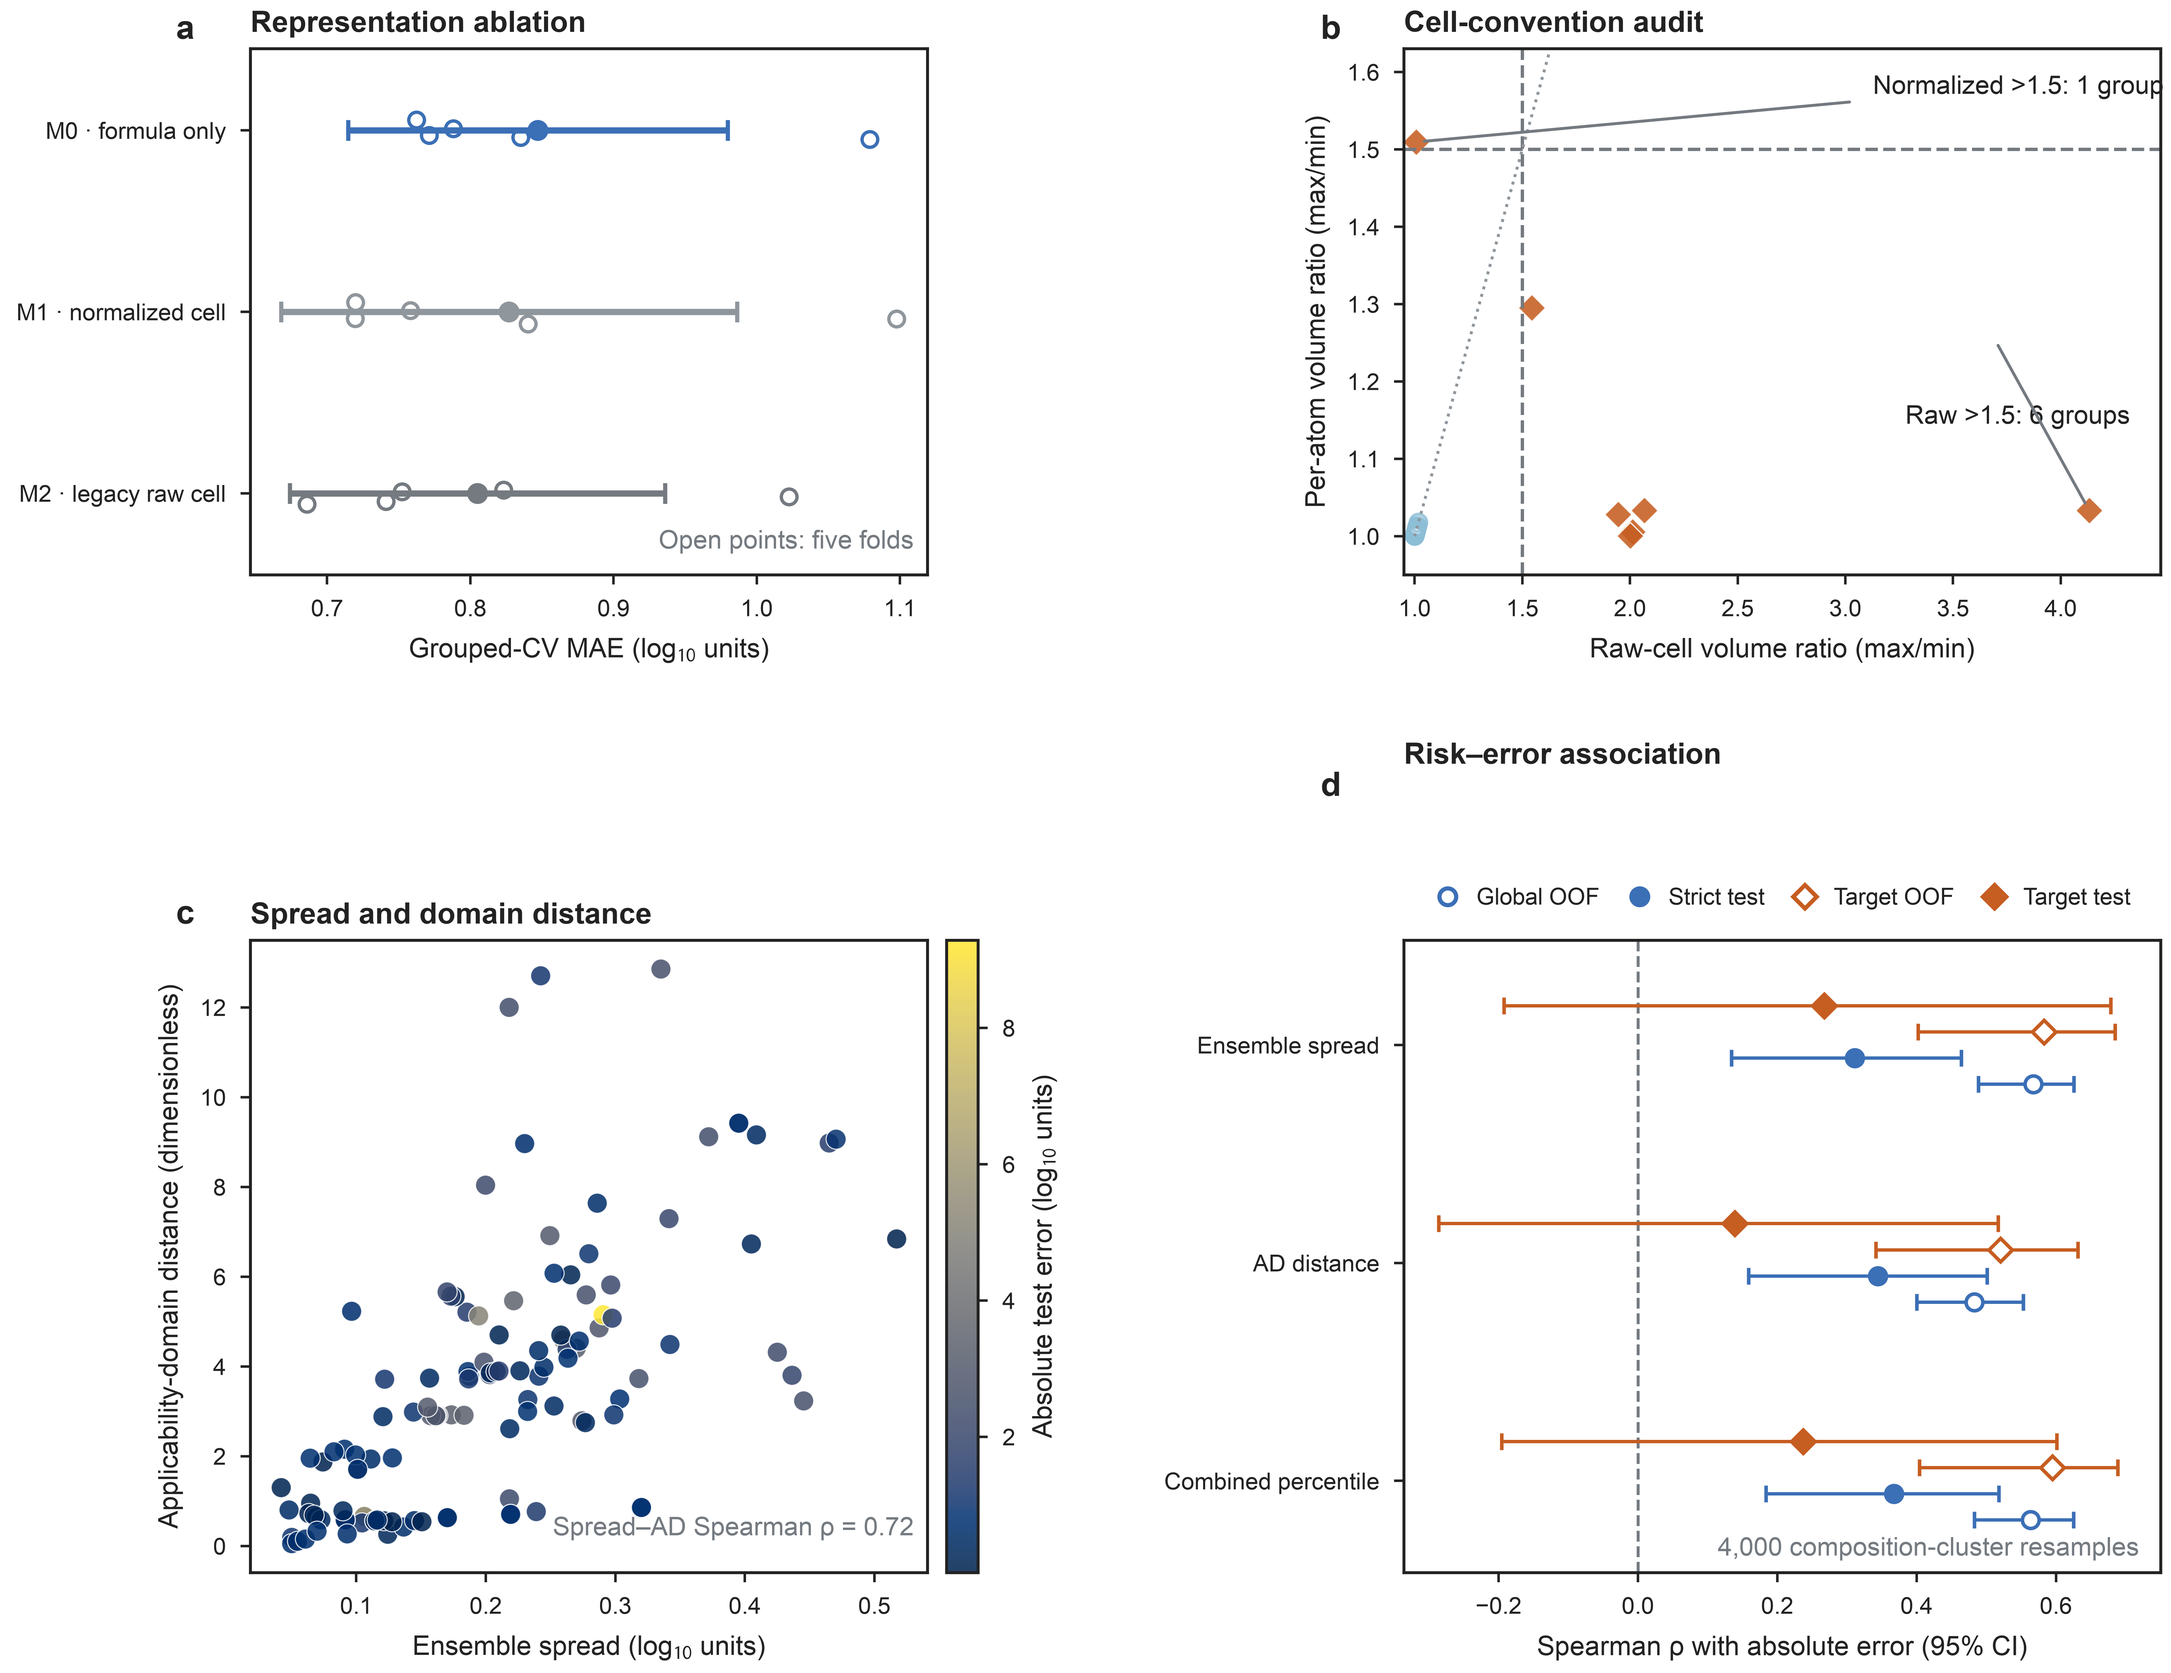
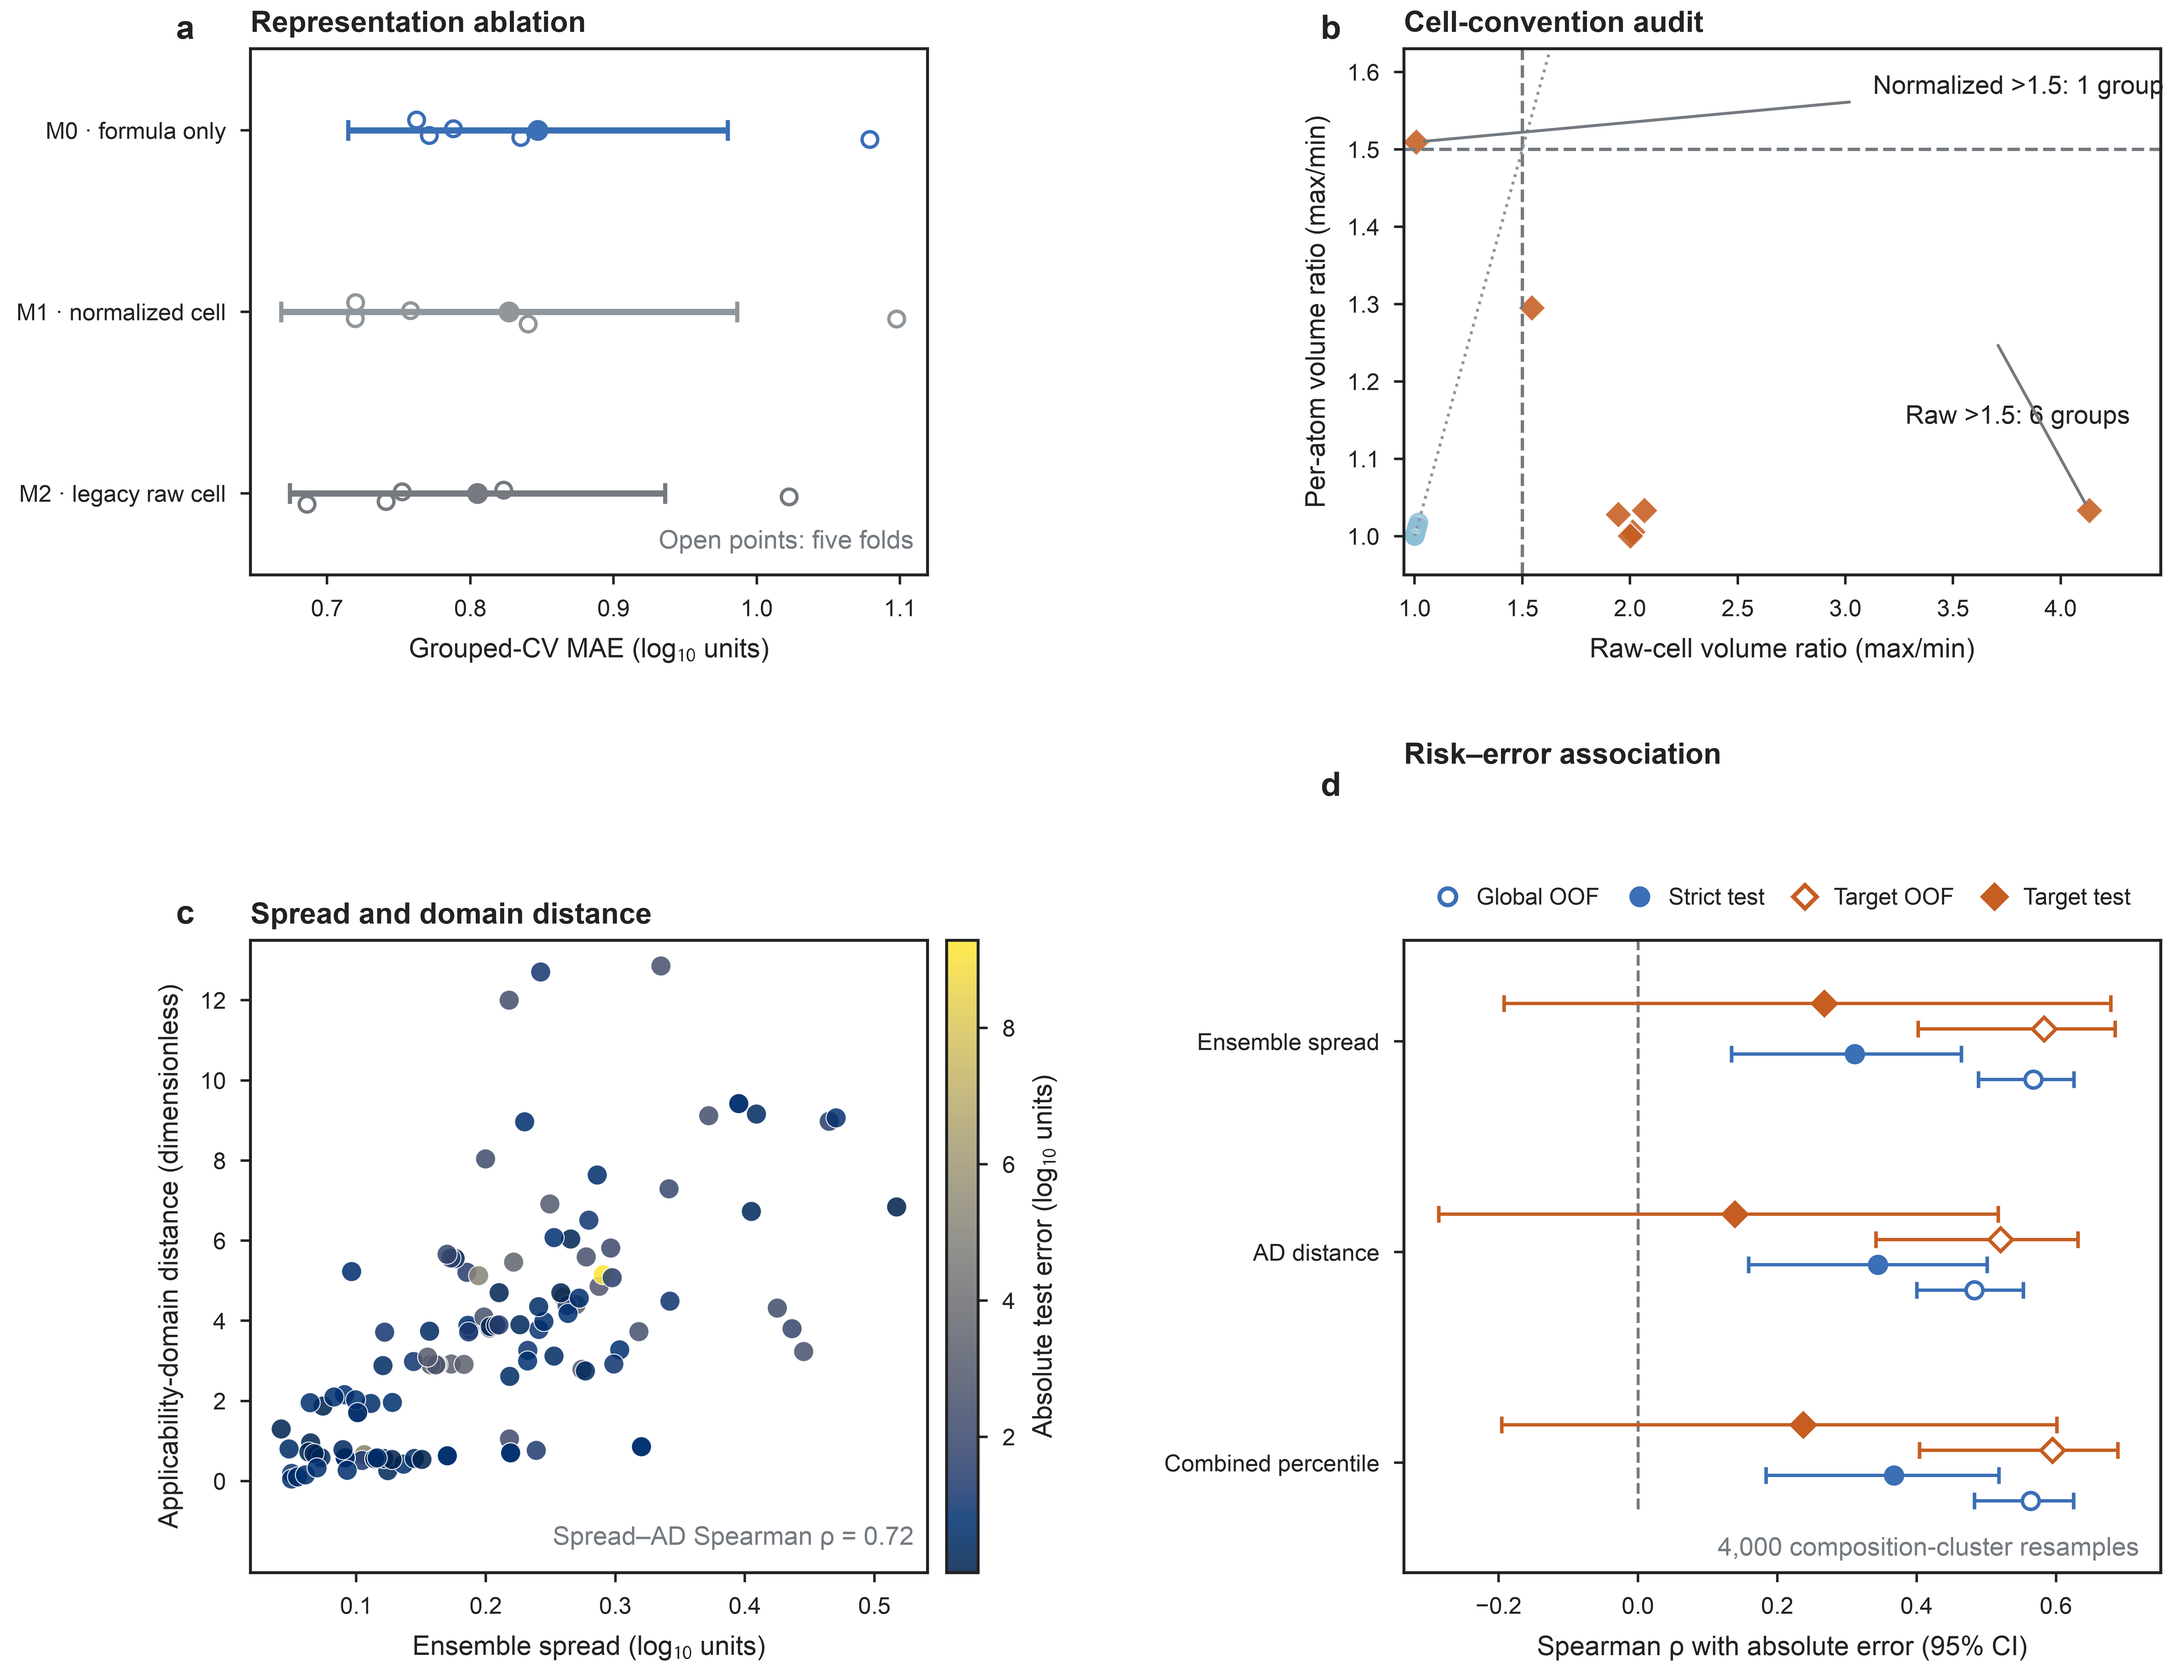
Figure 3: give the two annotations clearance under any sans-serif face
The frozen-release run stayed red after CI was pinned to the reviewed
environment, so the cause was not package drift. Arial is absent from the
Ubuntu runner, Matplotlib substitutes DejaVu Sans, and the wider face grows the
two annotation bounding boxes in Figure 3 until the layout test reports six
collisions. The style already declares Helvetica and DejaVu Sans as fallbacks,
so a figure that only clears its own data under Arial does not meet the
project's stated contract.

Both annotations were anchored to a panel corner with almost no padding:

- Panel c placed the spread-AD correlation note directly against the scatter.
  The axes now reserve an empty band below the data and, because AD distance is
  non-negative, that band carries no tick labels.
- Panel d's resample note did not touch any data point; it crossed the dashed
  zero reference line, which spanned the full axes height. The line now stops
  above the bottom strip that carries the note.

Verified by rendering all six figures under Arial, DejaVu Sans, and a
Nimbus/Liberation fallback chain: zero legend and free-text collisions in every
combination, where the previous code gave six under any non-Arial face. Figures
1, 2, 4, 5 and S1 were already clean and are unchanged apart from re-rendering.

diff --git a/src/p1screen/figures.py b/src/p1screen/figures.py
@@ -924,7 +924,13 @@ def figure_03() -> None:
         ABSOLUTE_ERROR_LABEL,
     )
     rho = test[["spread", "ad_distance"]].corr(method="spearman").iloc[0, 1]
-    ax.text(0.98, 0.05, f"Spread–AD Spearman ρ = {rho:.2f}",
+    # Reserve an empty band under the data so the annotation clears every point
+    # even when a wider fallback face is substituted for Arial.
+    bottom, top = ax.get_ylim()
+    ax.set_ylim(bottom - 0.12 * (top - bottom), top)
+    # AD distance is non-negative, so the reserved band carries no tick labels.
+    ax.set_yticks([tick for tick in ax.get_yticks() if 0 <= tick <= top])
+    ax.text(0.98, 0.035, f"Spread–AD Spearman ρ = {rho:.2f}",
             transform=ax.transAxes, ha="right", va="bottom", color=GRAY)
     _tidy(ax)
 
@@ -984,13 +990,16 @@ def figure_03() -> None:
             label=label,
         )
         errorbar.lines[0].set_gid(f"risk-series-{sample}")
-    ax.axvline(0, color=GRAY, ls="--", lw=0.7)
+    # Stop the zero reference short of the bottom strip that carries the
+    # resample note, so a wider fallback face cannot run the note into the line.
+    ax.axvline(0, ymin=0.10, color=GRAY, ls="--", lw=0.7)
     lower = float(risk.loc[risk.signal.isin(signal_order), "ci95_low"].min())
     upper = float(risk.loc[risk.signal.isin(signal_order), "ci95_high"].max())
     ax.set_xlim(min(-0.25, lower - 0.05), max(0.75, upper + 0.05))
     ax.set_yticks(base_y, signal_labels)
     ax.set_xlabel("Spearman ρ with absolute error (95% CI)")
-    ax.set_ylim(-0.42, 2.48)
+    # The lower bound leaves a clear strip for the resample note under any face.
+    ax.set_ylim(-0.52, 2.48)
     ax.text(0.972, 0.018, "4,000 composition-cluster resamples",
             transform=ax.transAxes, ha="right", va="bottom", color=GRAY)
     _tidy(ax)
